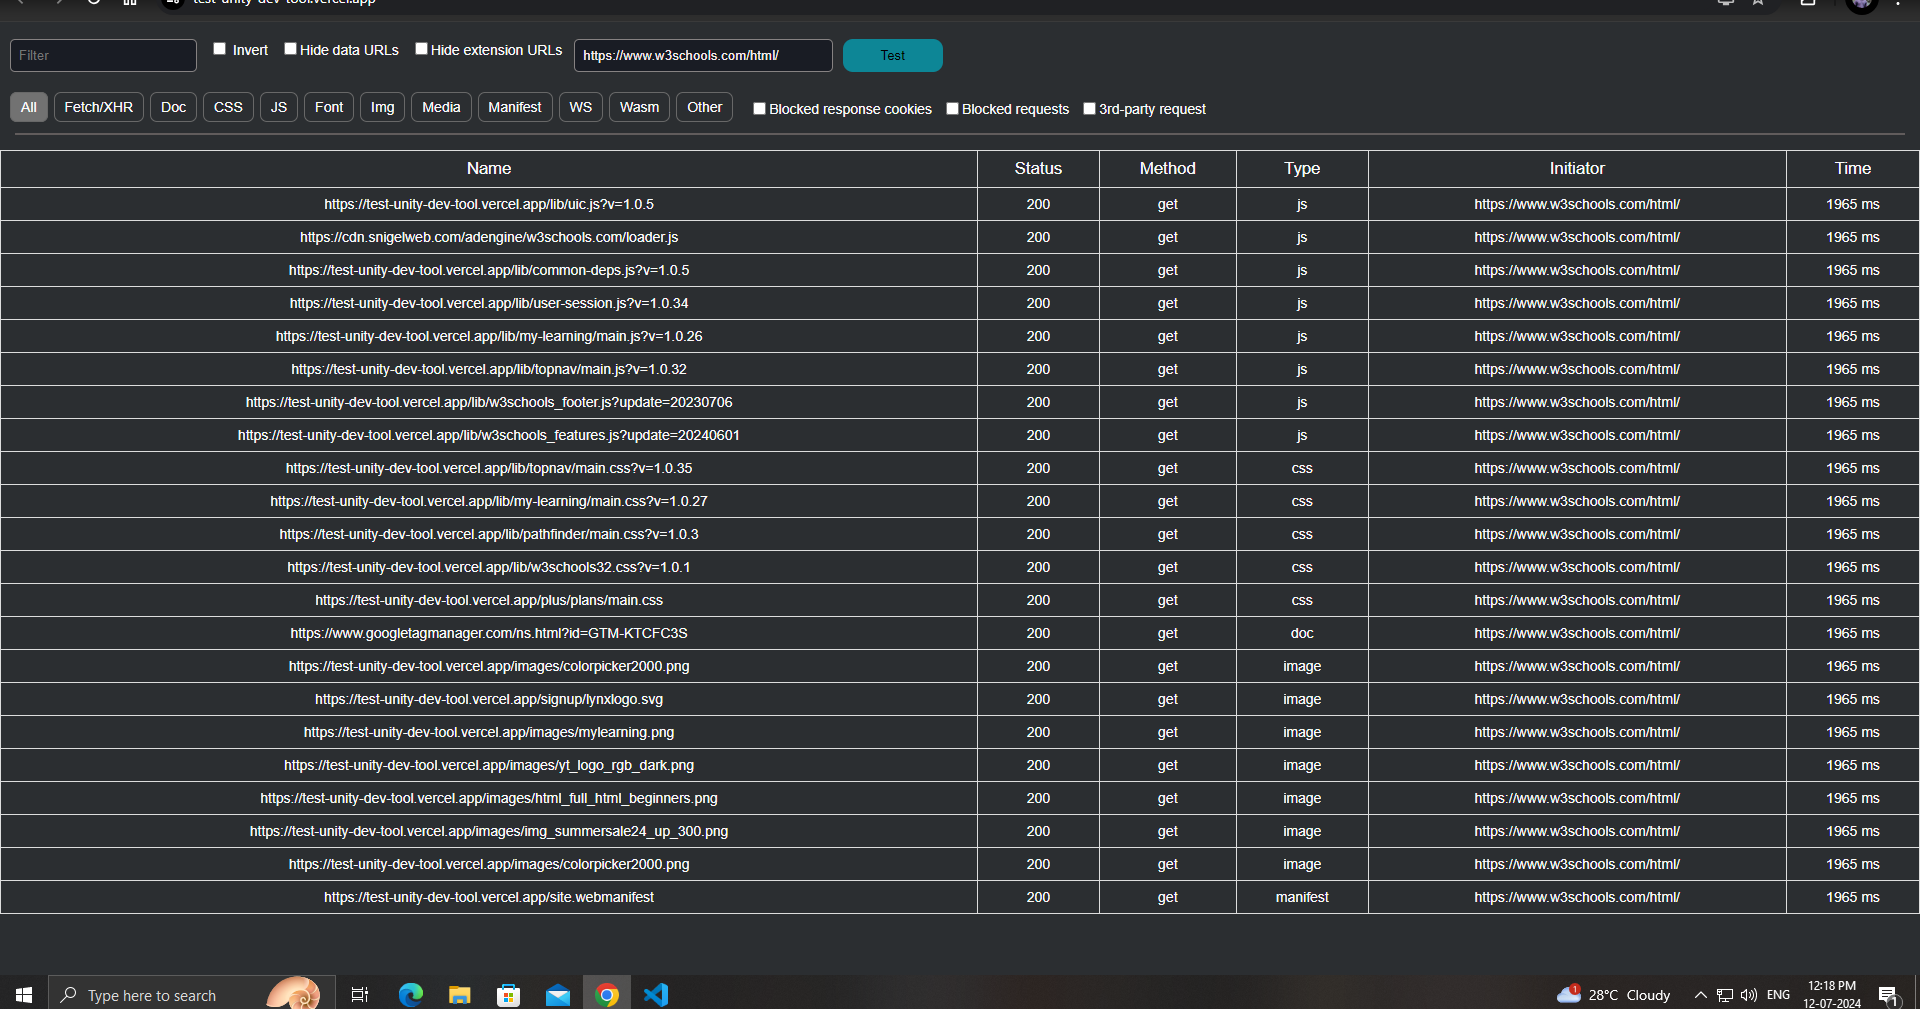
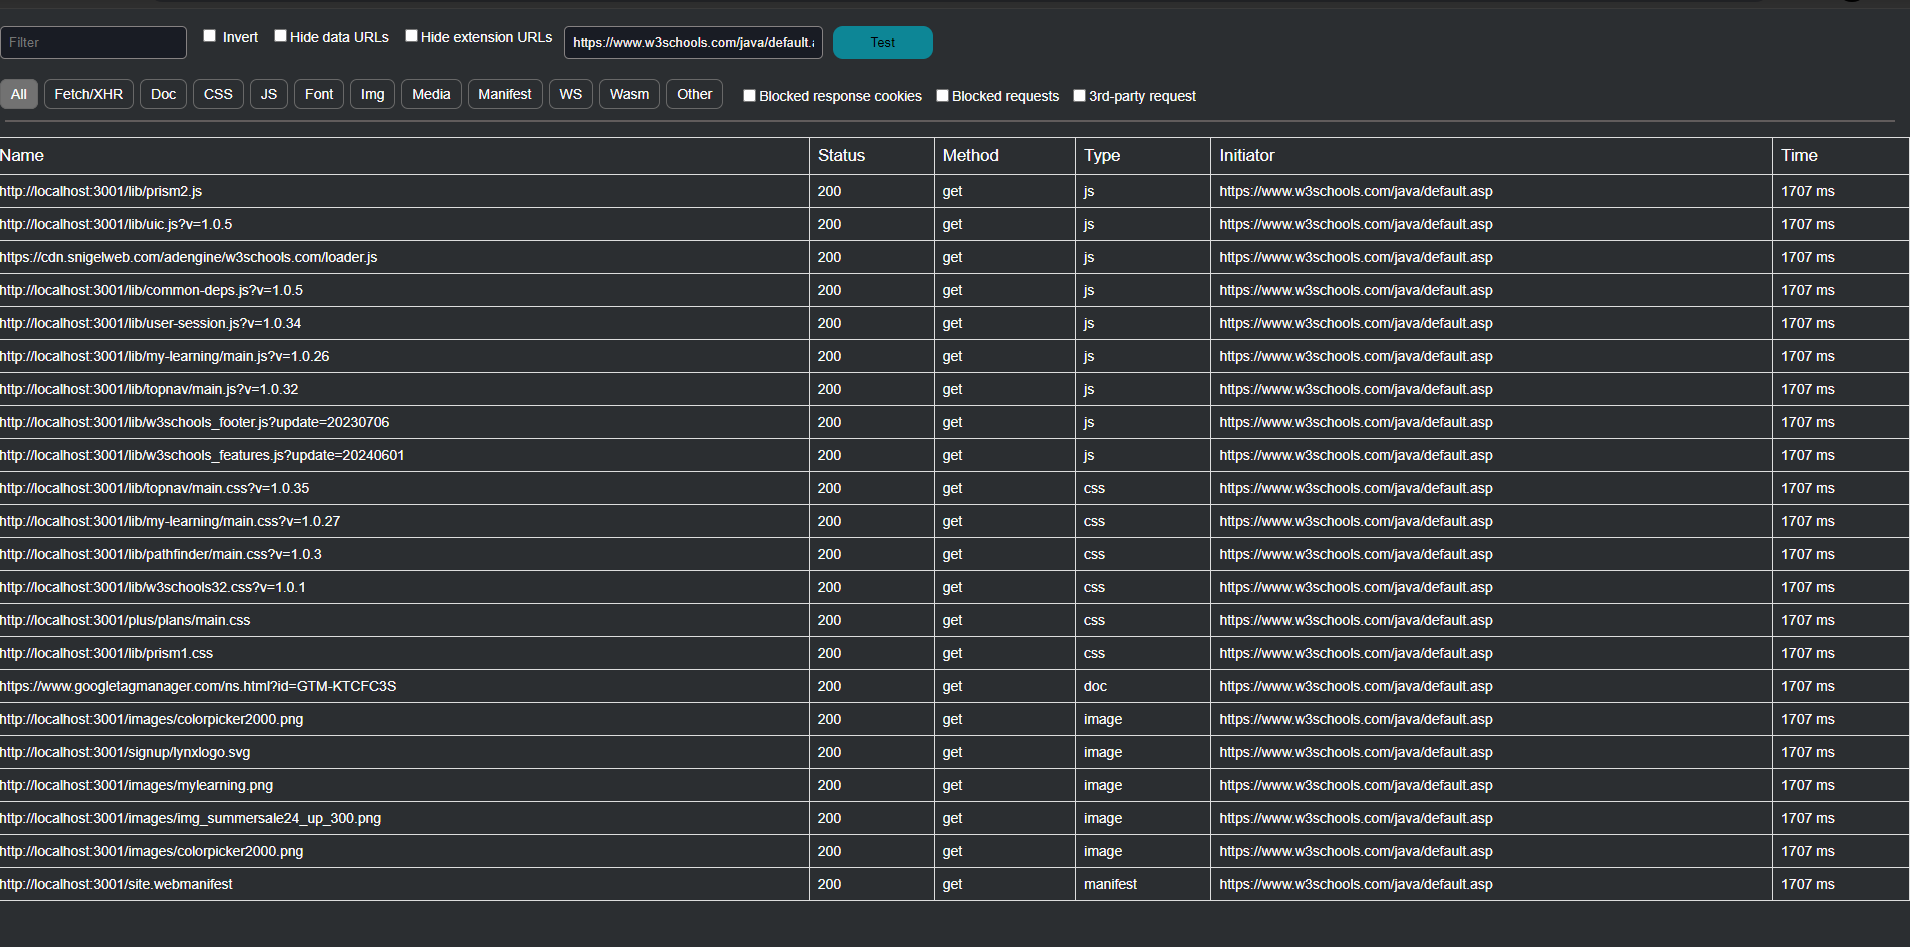
done

diff --git a/src/Components/NetworkTool.module.css b/src/Components/NetworkTool.module.css
@@ -103,7 +103,7 @@
 .table th,
 .table td {
   border: 1px solid #dddddd;
-  text-align: center;
+  text-align: left;
   padding: 8px;
 }
 

diff --git a/README.md b/README.md
@@ -7,7 +7,7 @@ This project is a network monitoring application built using React and Css, desi
 
 ## Deployed Link
 
-Assignment link :- [here]().
+Assignment link :- [here](https://test-unity-dev-tool.vercel.app/).
 
 
 
@@ -53,23 +53,20 @@ To use Todo App locally->
 
 Screen Shots
 Home Page
-![Screenshot 1]()
+![Screenshot 1](https://github.com/Chetn11/testUnity-DevTool/blob/main/src/images/home.PNG)
 
-1. Watched Movies list
-![Screenshot 1]()
+1. After making request
+![Screenshot 1](https://github.com/Chetn11/testUnity-DevTool/blob/main/src/images/get%20data.PNG)
 
-2. unWatched Movies List
-![Screenshot 1]()
+2. Filter
+![Screenshot 1](https://github.com/Chetn11/testUnity-DevTool/blob/main/src/images/filter.PNG)
 
-3. Add Movies Form
-![Screenshot 1]()
+3. 
+![Screenshot 1](https://github.com/Chetn11/testUnity-DevTool/blob/main/src/images/heders.PNG)
 
 4.
-![Screenshot 1]()
+![Screenshot 1](https://github.com/Chetn11/testUnity-DevTool/blob/main/src/images/response.PNG)
 
-5.
-![Screenshot 1]()
-![Screenshot 1]()
 
 5.  video
 [here]()
